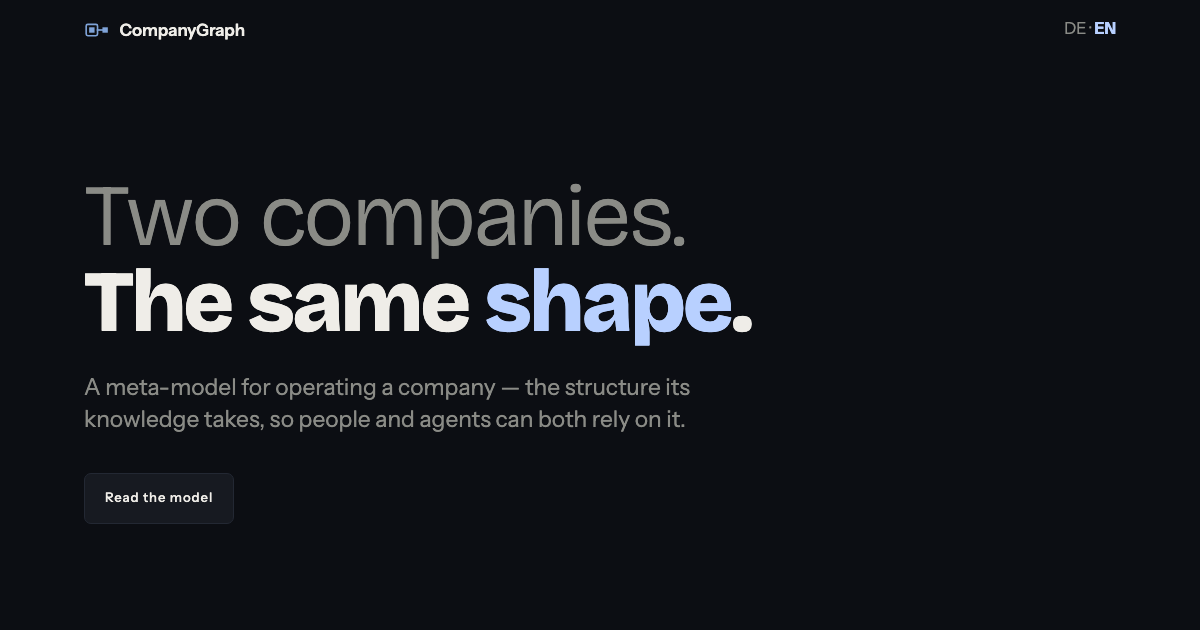
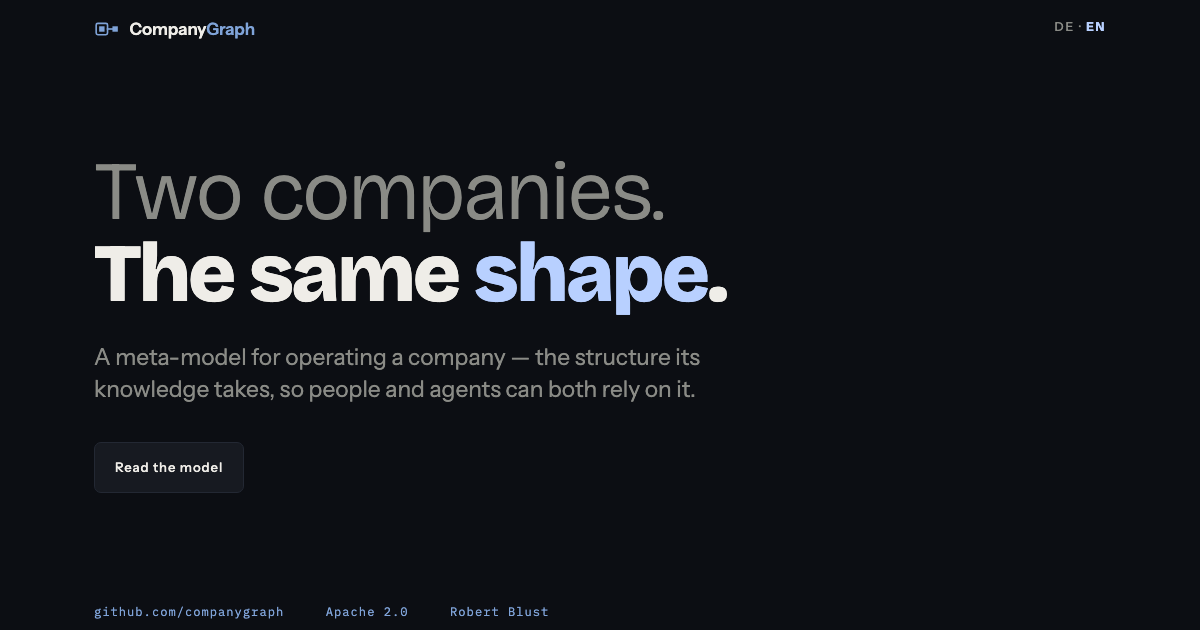
Put the page in the shell the other sites use
Four things were off against `guestgraph.io` and `blust.ch`, and three of them
were the same thing.

The content had the sibling's 7vw gutters but not its cap, so on a wide screen it
spread to the viewport edge instead of sitting in a 1180px column. `.shell` —
`max-width:1180px; margin:0 auto; padding:0 7vw` — now wraps the header, the main
content and the footer separately, which is how the siblings do it and what makes
all three line up on the same two edges at every width.

That cap is also why the language control looked missing. It was there, and it had
been there since the toggle shipped, but with nothing capping the header it was
pushed against the browser frame a hundred pixels from any content, where it reads
as chrome rather than as part of the page. It now sits in a `<nav>` like the
siblings' — the sibling's own comment says why, and it is the right reason: the
control belongs with the other things you can do to the page rather than on top of
it. The nav carries no links until the talk ships and exists anyway to hold this.

The wordmark was a bare string, so there was no span to colour. It is
`<b>Company<span>Graph</span></b>` now, with `Graph` in `--c-mid` — the same accent
the mark beside it uses, and the same construction as `Guest`/`Graph` and
`Robert`/`Blust`.

And there was no footer at all. It carries what the siblings' carry: the
organisation, the licence, and whose work this is. It is set in mono because every
[…]

diff --git a/index.html b/index.html
@@ -42,13 +42,22 @@
        min-height:100vh; display:flex; flex-direction:column}
   h1{font-family:"Bricolage Grotesque", system-ui, sans-serif}
 
-  /* No nav: there is nowhere else on the site to go yet. Just the wordmark and, beside
-     it, the language control — it needs no nav to live in. */
-  header{padding:2.4rem 7vw 0}
+  /* One column, capped and centred, exactly as the sibling sites do it — the gutters are
+     the shell's, so header, main and footer line up on the same two edges at every width. */
+  .shell{width:100%; max-width:1180px; margin:0 auto; padding:0 7vw}
+  header{padding:2.4rem 0 0}
   .bar{display:flex; align-items:center; justify-content:space-between; gap:1rem 2rem; flex-wrap:wrap}
-  .brand{display:flex; align-items:center; gap:.6rem; color:var(--ink); text-decoration:none;
-         font-weight:600; font-size:1.06rem; letter-spacing:-.01em}
+  .brand{display:flex; align-items:center; gap:.6rem; color:var(--ink); text-decoration:none}
   .brand svg{width:26px; height:26px; color:var(--c-mid); flex:0 0 auto}
+  .brand b{font-weight:600; font-size:1.06rem; letter-spacing:-.01em}
+  .brand b span{color:var(--c-mid)}
+  /* The nav is empty of links until the talk ships. It exists anyway, because the language
+     control is a nav item and not a floating badge: it belongs with the other things you can
+     do to the page rather than on top of the page. */
+  nav{display:flex; gap:1.9rem; font-size:.76rem; font-weight:500;
+      letter-spacing:.14em; text-transform:uppercase}
+  nav a{color:var(--dim); text-decoration:none; padding-bottom:.2rem; border-bottom:1px solid transparent}
+  nav a:hover, nav a:focus-visible{color:var(--ink); border-color:var(--c-mid)}
   /* Same control as the sibling sites: rests dim like any secondary text, brightens on
      hover, and marks whichever language is active with --c-firm — the resolved thing. */
   .langind{font:inherit; letter-spacing:inherit; text-transform:inherit; background:none;
@@ -59,9 +68,15 @@
   /* Hero and figure sit side by side while there is room for both, and stack when there is
      not. The page's whole promise is one screen, and a figure the width of the text column,
      under it, is taller than a laptop. */
-  main{flex:1; display:flex; flex-wrap:wrap; align-items:center;
-       gap:clamp(2rem,5vw,4.5rem); padding:6vh 7vw}
-  .hero{flex:1 1 620px; max-width:900px; container-type:inline-size}
+  main{flex:1; display:flex; align-items:center; padding:6vh 0}
+  main .shell{display:flex; flex-wrap:wrap; align-items:center; gap:clamp(2rem,5vw,4.5rem)}
+  /* Mono means data, and every item here is one: a URL, a licence identifier, a name that
+     is really a link. The check that guards mono deliberately does not reach the footer. */
+  footer{padding:0 0 2rem; display:flex; flex-wrap:wrap; gap:.9rem 2.6rem; align-items:center;
+         font-family:"Plex Mono",monospace; font-size:.76rem; letter-spacing:.08em; color:var(--dim)}
+  footer a{color:var(--c-mid); text-decoration:none}
+  footer a:hover, footer a:focus-visible{text-decoration:underline}
+  .hero{flex:1 1 500px; max-width:640px; container-type:inline-size}
   /* One axis carries the argument: the setup arrives light and unresolved, the shape it
      lands on arrives heavy. em marks the resolved word itself. */
   /* The headline sizes to its own column, not to the viewport: once the figure sits beside
@@ -97,7 +112,7 @@
      accepted, because the answer is the shape and not either of them. --c-firm is the
      shape. Nothing in the figure is interactive, so nothing in it is --c-mid, and there
      is no reversal here, so there is no --c-flag. */
-  .figure{flex:1 1 320px; max-width:460px; margin:0}
+  .figure{flex:1 1 300px; max-width:400px; margin:0}
   .fig{display:block; width:100%; height:auto}
   .figcap{margin-top:1.1rem; color:var(--dim); font-size:.86rem; line-height:1.45;
           text-align:center; text-wrap:balance}
@@ -141,8 +156,9 @@
 </style>
 </head>
 <body>
-<header>
-  <div class="bar">
+<div class="shell">
+  <header>
+    <div class="bar">
     <a class="brand" href="./">
       <svg viewBox="0 0 24 24" aria-hidden="true" fill="none" stroke="currentColor"
            stroke-width="1.5" stroke-linecap="square">
@@ -151,13 +167,17 @@
         <path d="M12.5 12 h4.5"/>
         <rect x="17" y="9.5" width="5" height="5" fill="currentColor" stroke="none"/>
       </svg>
-      CompanyGraph
+      <b>Company<span>Graph</span></b>
     </a>
-    <button class="langind" id="langind" type="button"
-            aria-label="Sprache wechseln — switch language"><span id="lde">DE</span> · <span id="len">EN</span></button>
-  </div>
-</header>
+    <nav>
+      <button class="langind" id="langind" type="button"
+              aria-label="Sprache wechseln — switch language"><span id="lde">DE</span> · <span id="len">EN</span></button>
+    </nav>
+    </div>
+  </header>
+</div>
 <main>
+  <div class="shell">
   <section class="hero">
     <h1 data-de="<span class='r70'>Zwei Unternehmen.</span><span class='rcl'>Dieselbe <em>Form</em>.</span>"><span class="r70">Two companies.</span><span class="rcl">The same <em>shape</em>.</span></h1>
     <p class="tagline" data-de="Ein Meta-Modell für den Betrieb eines Unternehmens — die Struktur, die sein Wissen annimmt, damit Menschen und Agenten sich darauf verlassen können.">A meta-model for operating a company — the structure its knowledge takes, so people and agents can both rely on it.</p>
@@ -219,7 +239,15 @@
     <figcaption class="figcap" id="figcap"
        data-de="Ein Unternehmen aus einer Person, und eines mit Angestellten.">A company of one, and a company with a payroll.</figcaption>
   </figure>
+  </div>
 </main>
+<div class="shell">
+  <footer>
+    <span><a target="_blank" rel="noopener" href="https://github.com/companygraph">github.com/companygraph</a></span>
+    <span><a target="_blank" rel="noopener" href="https://github.com/companygraph/meta-model/blob/HEAD/LICENSE">Apache 2.0</a></span>
+    <span><a target="_blank" rel="noopener" href="https://blust.ch/">Robert Blust</a></span>
+  </footer>
+</div>
 <script>
 // English is the markup and German lives in data-de — the other way round from the decks,
 // and deliberately: this page is delivered, shared and indexed in English, so English is what

diff --git a/CLAUDE.md b/CLAUDE.md
@@ -42,6 +42,20 @@ that lived in another repository. No CI in *this* repository can catch drift in
 
 ## Constraints
 
+- **Everything lives in `.shell`** — `max-width:1180px; margin:0 auto; padding:0 7vw` — and the
+  header, the main content and the footer each get their own. That is what makes them line up
+  on the same two edges at every width, and it is the sibling sites' container verbatim. Without
+  the cap the content spreads to the viewport edge on a wide screen, and the language control
+  ends up against the browser frame where it reads as chrome rather than as part of the page.
+  Removing the cap from any one of the three is the failure mode: two of them still agree and
+  the third looks like a bug nobody can name.
+- **The language control is a nav item, not a floating badge.** It sits in `<nav>` beside the
+  links, because it belongs with the other things you can do to the page rather than on top of
+  the page. The nav is empty of links until the talk ships; it exists anyway to hold this.
+- **The footer is set in mono because every item in it is data** — a URL, a licence identifier,
+  a name that is really a link. `monoScope` deliberately does not reach the footer, so nothing
+  will stop you putting prose there; do not.
+
 - **The repository name is load-bearing.** `companygraph.github.io` makes this the org's
   Pages site, so the custom domain in `CNAME` cascades to every other Pages repository in the
   org — `companygraph/talks` will serve at `companygraph.io/talks/` with no configuration of
